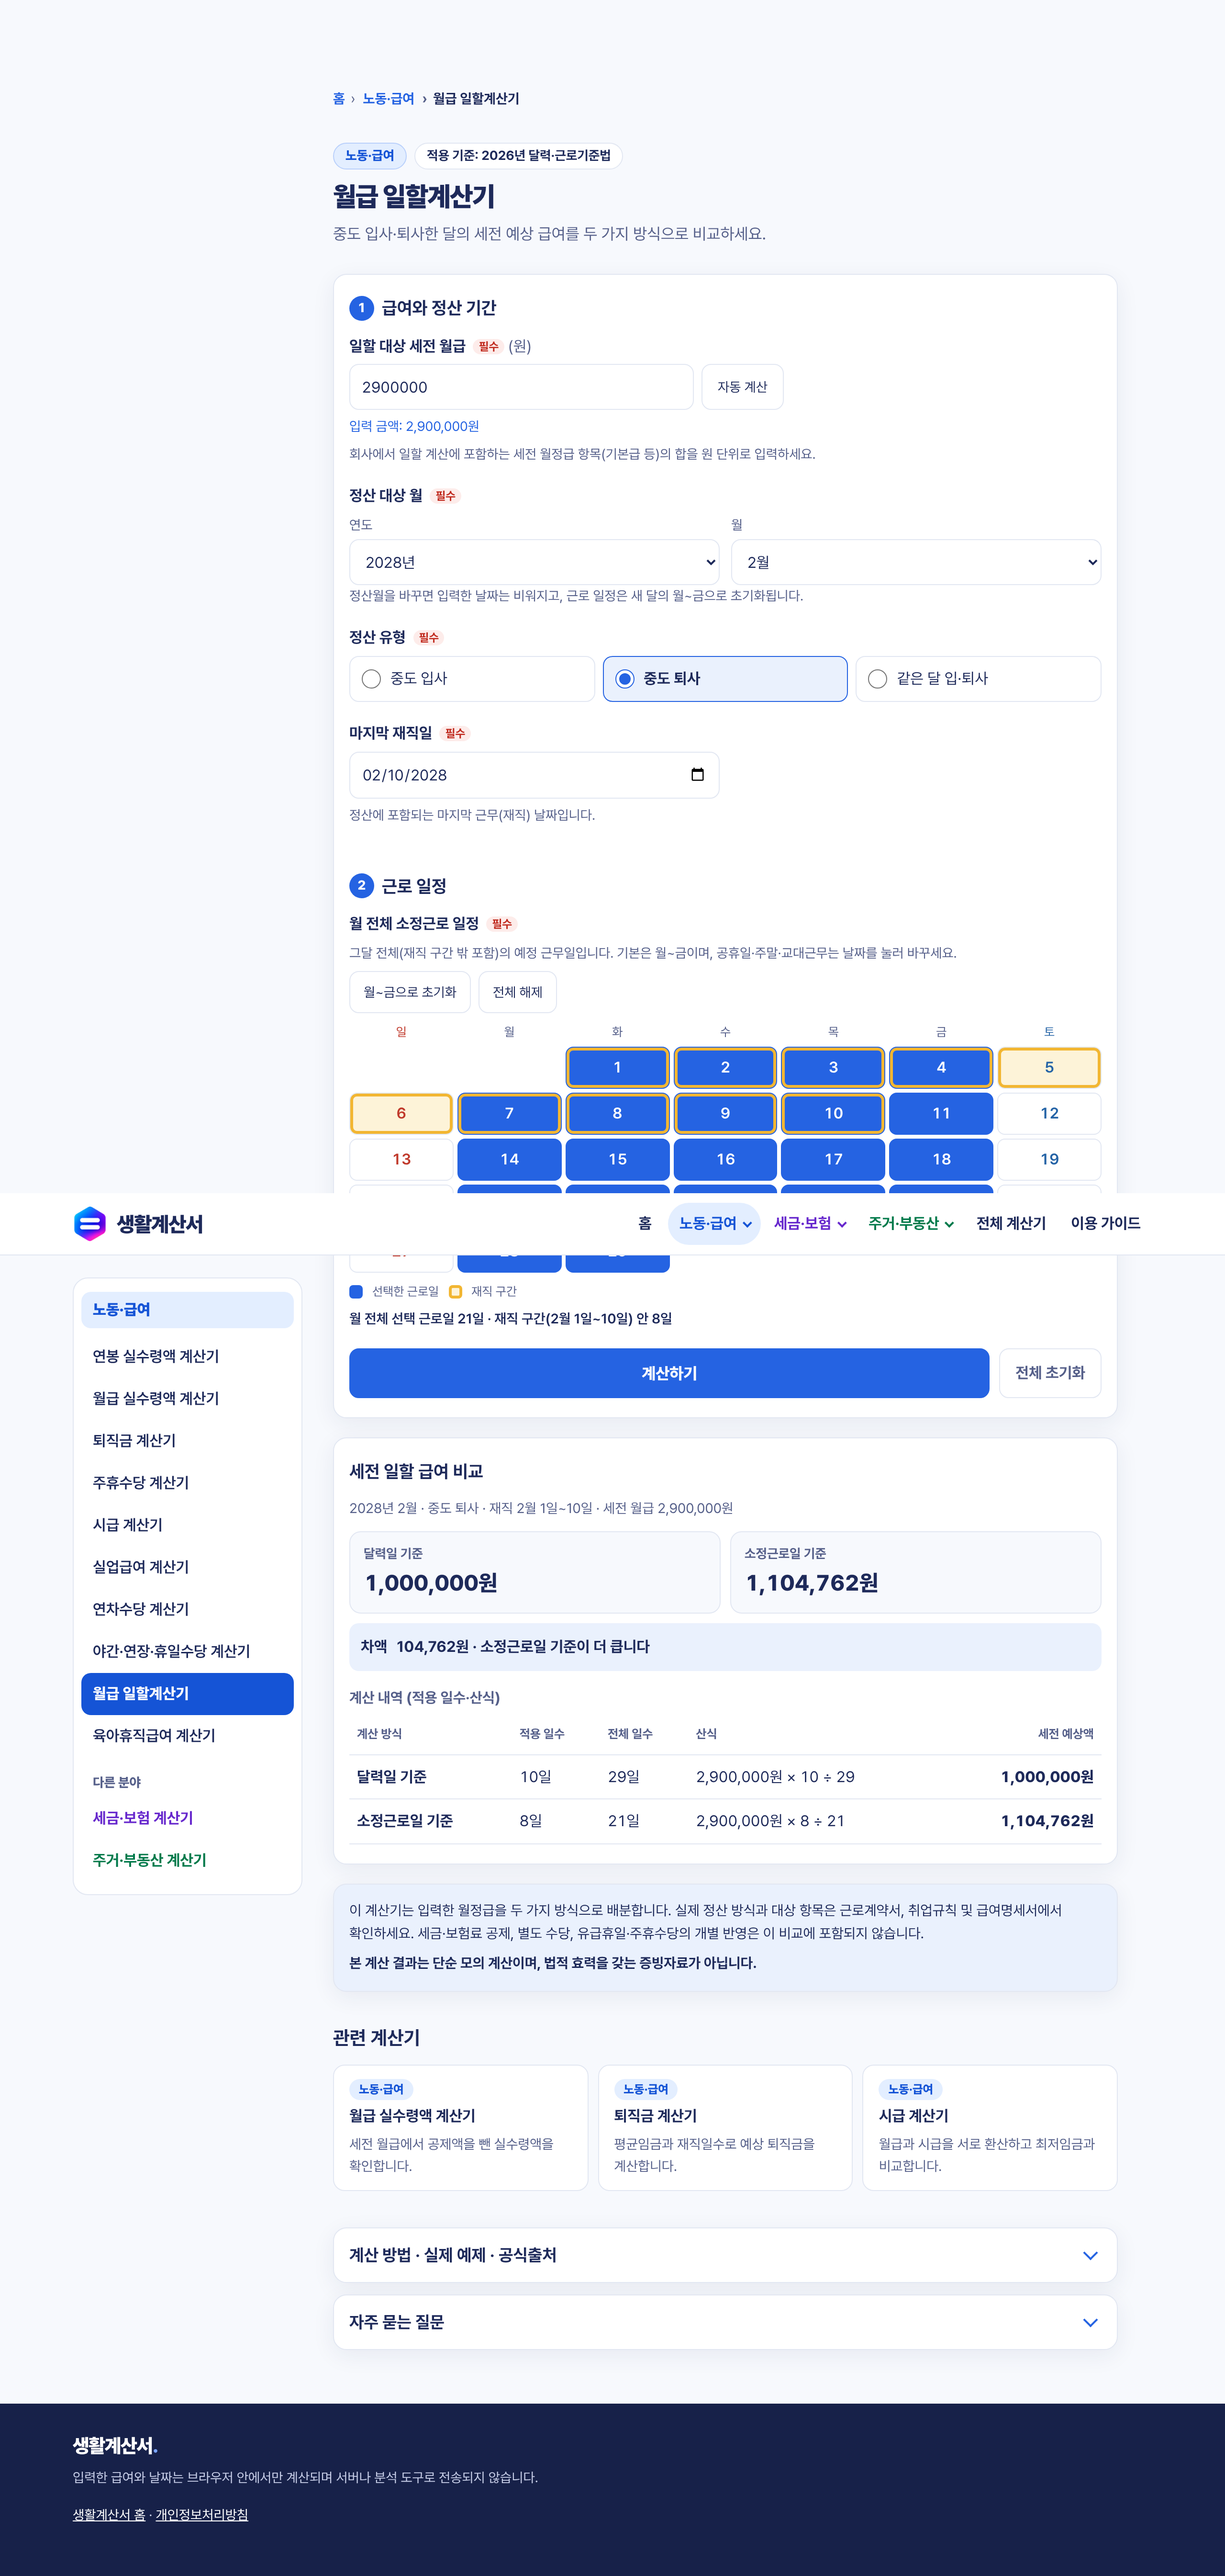
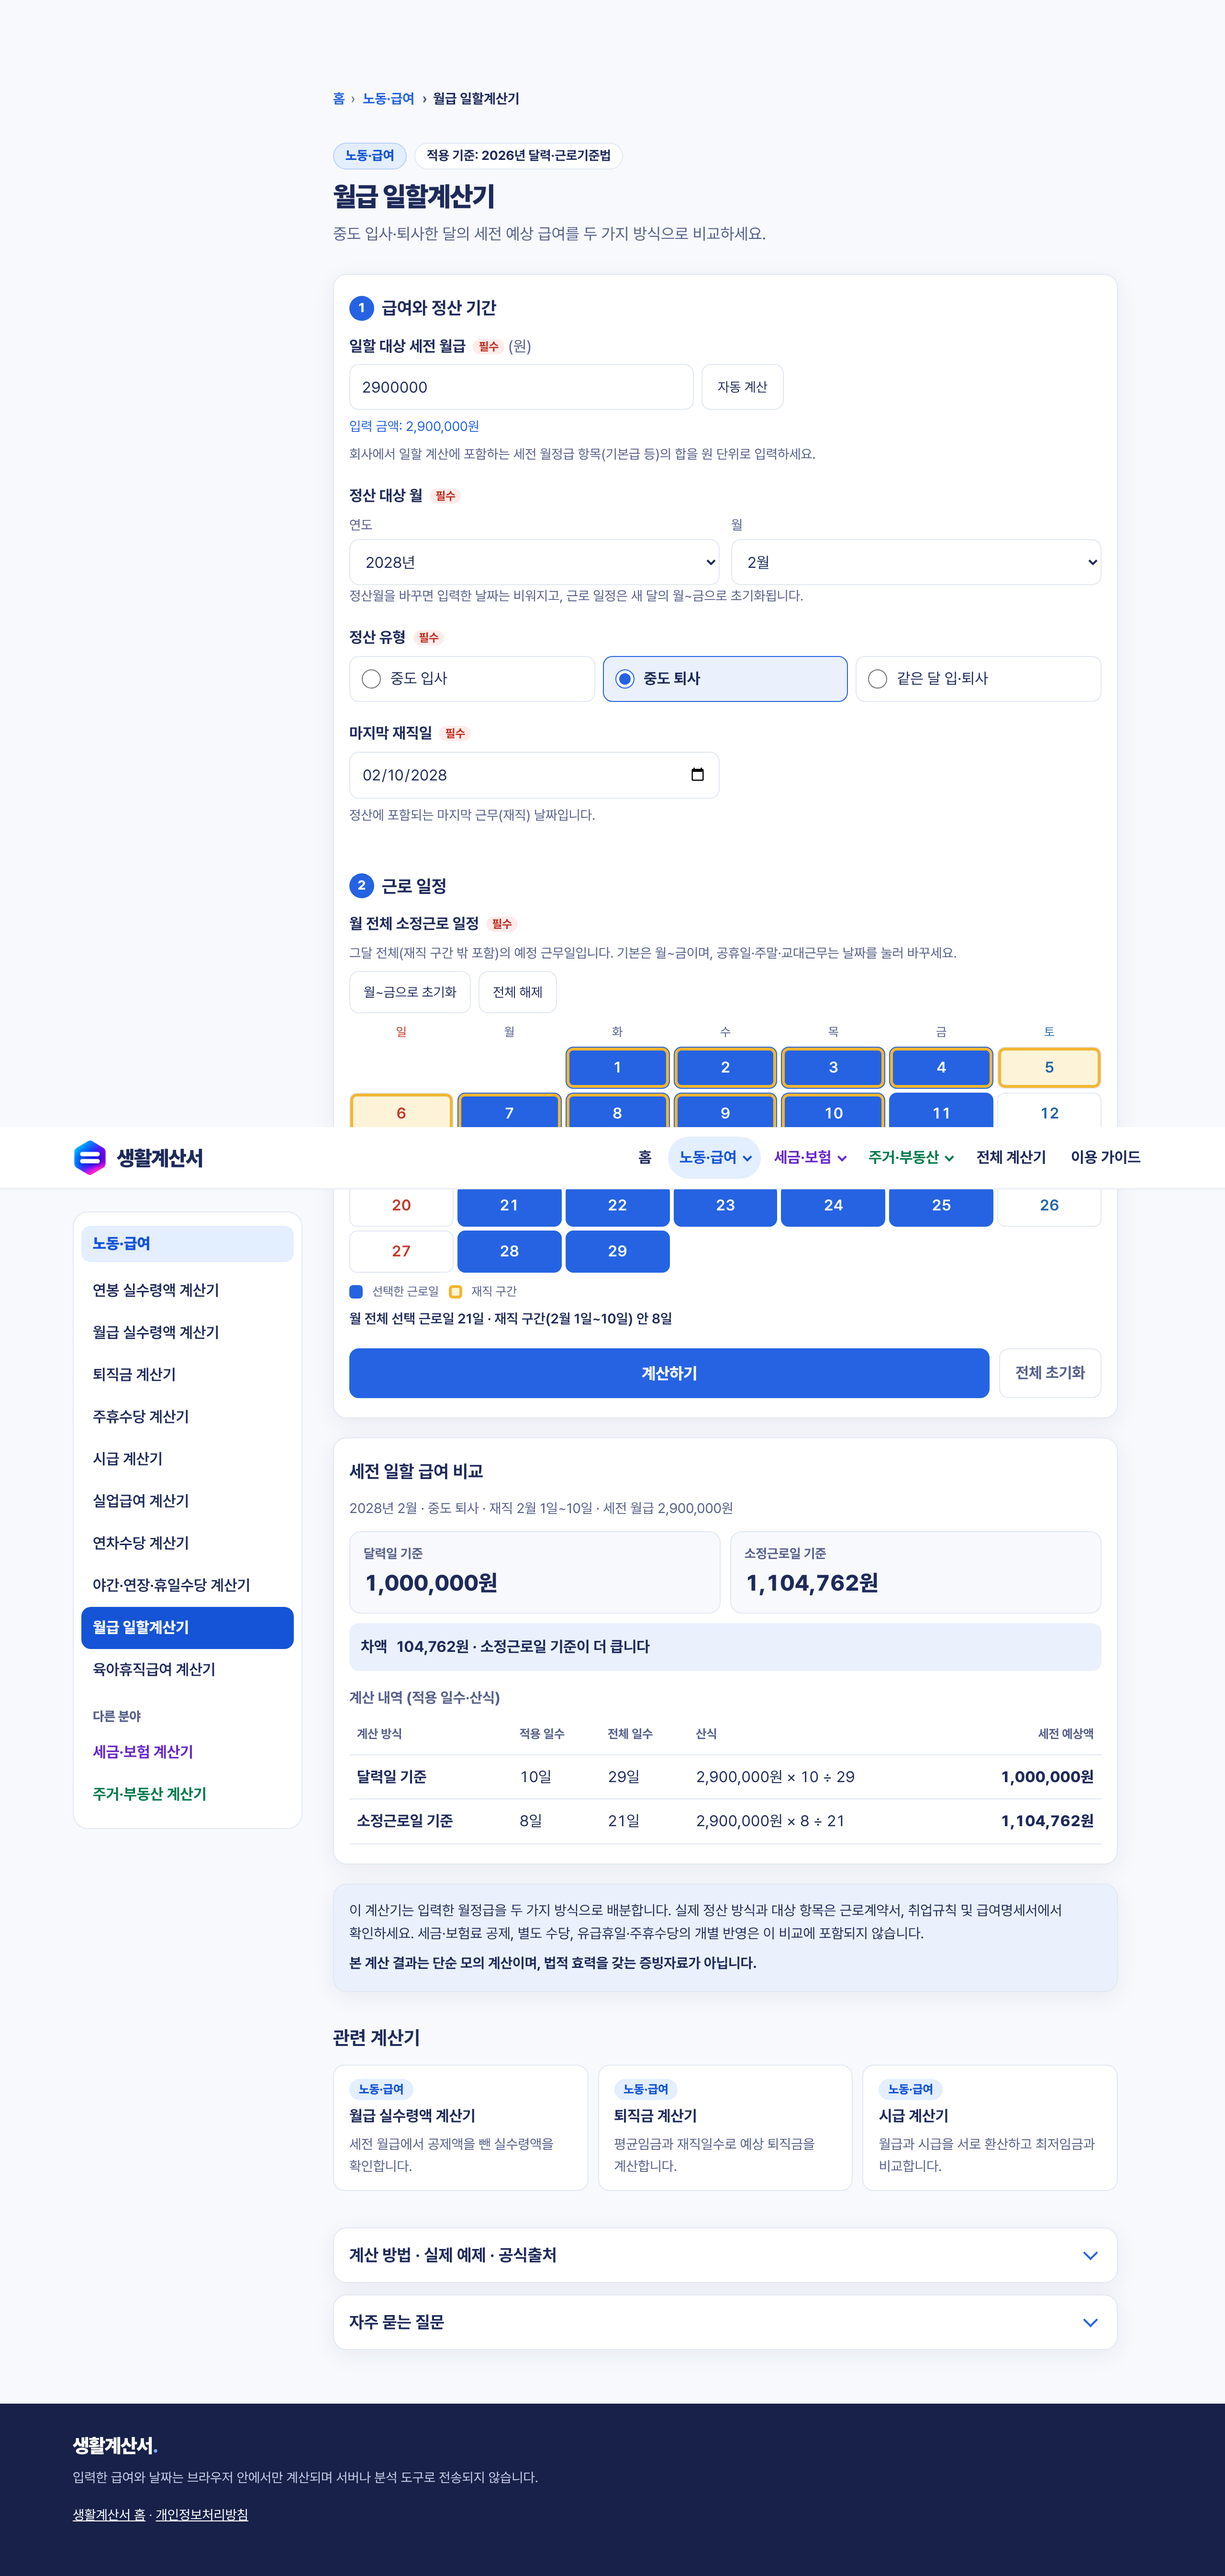
네이버 서치어드바이저 사이트 소유 확인 메타 태그 추가 (홈)
Claude-Session: https://claude.ai/code/session_01Q3BcEdyQ2K5YjfFxHGZibt

Changed region(s): [[0.0625, 0.4372, 0.25, 0.7182], [0.2812, 0.4372, 0.9062, 0.4996]]

diff --git a/site/index.html b/site/index.html
@@ -5,6 +5,8 @@
   <meta name="viewport" content="width=device-width, initial-scale=1">
   <meta http-equiv="Content-Security-Policy" content="default-src 'self'; script-src 'self'; style-src 'self'; img-src 'self' data:; connect-src 'none'; form-action 'none'; base-uri 'none'">
   <meta name="referrer" content="strict-origin-when-cross-origin">
+  <!-- 네이버 서치어드바이저 사이트 소유 확인 -->
+  <meta name="naver-site-verification" content="49a1654bb2d844c356705f96722228af2d2d4d3e">
   <title>급여·세금·부동산 계산기 30종 | 생활계산서</title>
   <meta name="description" content="연봉 실수령액·퇴직금·4대보험·부가세·대출이자·취득세 등 급여·세금·부동산 계산기 30종을 2026년 기준으로 바로 계산합니다. 입력한 값은 서버로 전송되지 않습니다.">
   <!-- seo:start -->

diff --git a/docs/test-report-production.md b/docs/test-report-production.md
@@ -1,6 +1,6 @@
 # 생활계산서 검수 결과표
 
-- 실행: 2026-11-21T23:34:23.565Z · 운영용 빌드(dist/, SITE_URL=https://xn--989a2xnd520fn5f.site) · `npm run verify:production` · Chromium(Playwright) · 시간대 Pacific/Kiritimati(UTC+14)
+- 실행: 2026-11-22T00:02:55.681Z · 운영용 빌드(dist/, SITE_URL=https://xn--989a2xnd520fn5f.site) · `npm run verify:production` · Chromium(Playwright) · 시간대 Pacific/Kiritimati(UTC+14)
 - 집계: 통과 134 · 실패 0 · 미확인 3
 
 ## 월급 일할계산기 — 필수 검증 사례 5건 (회귀, 브라우저 직접 입력)
